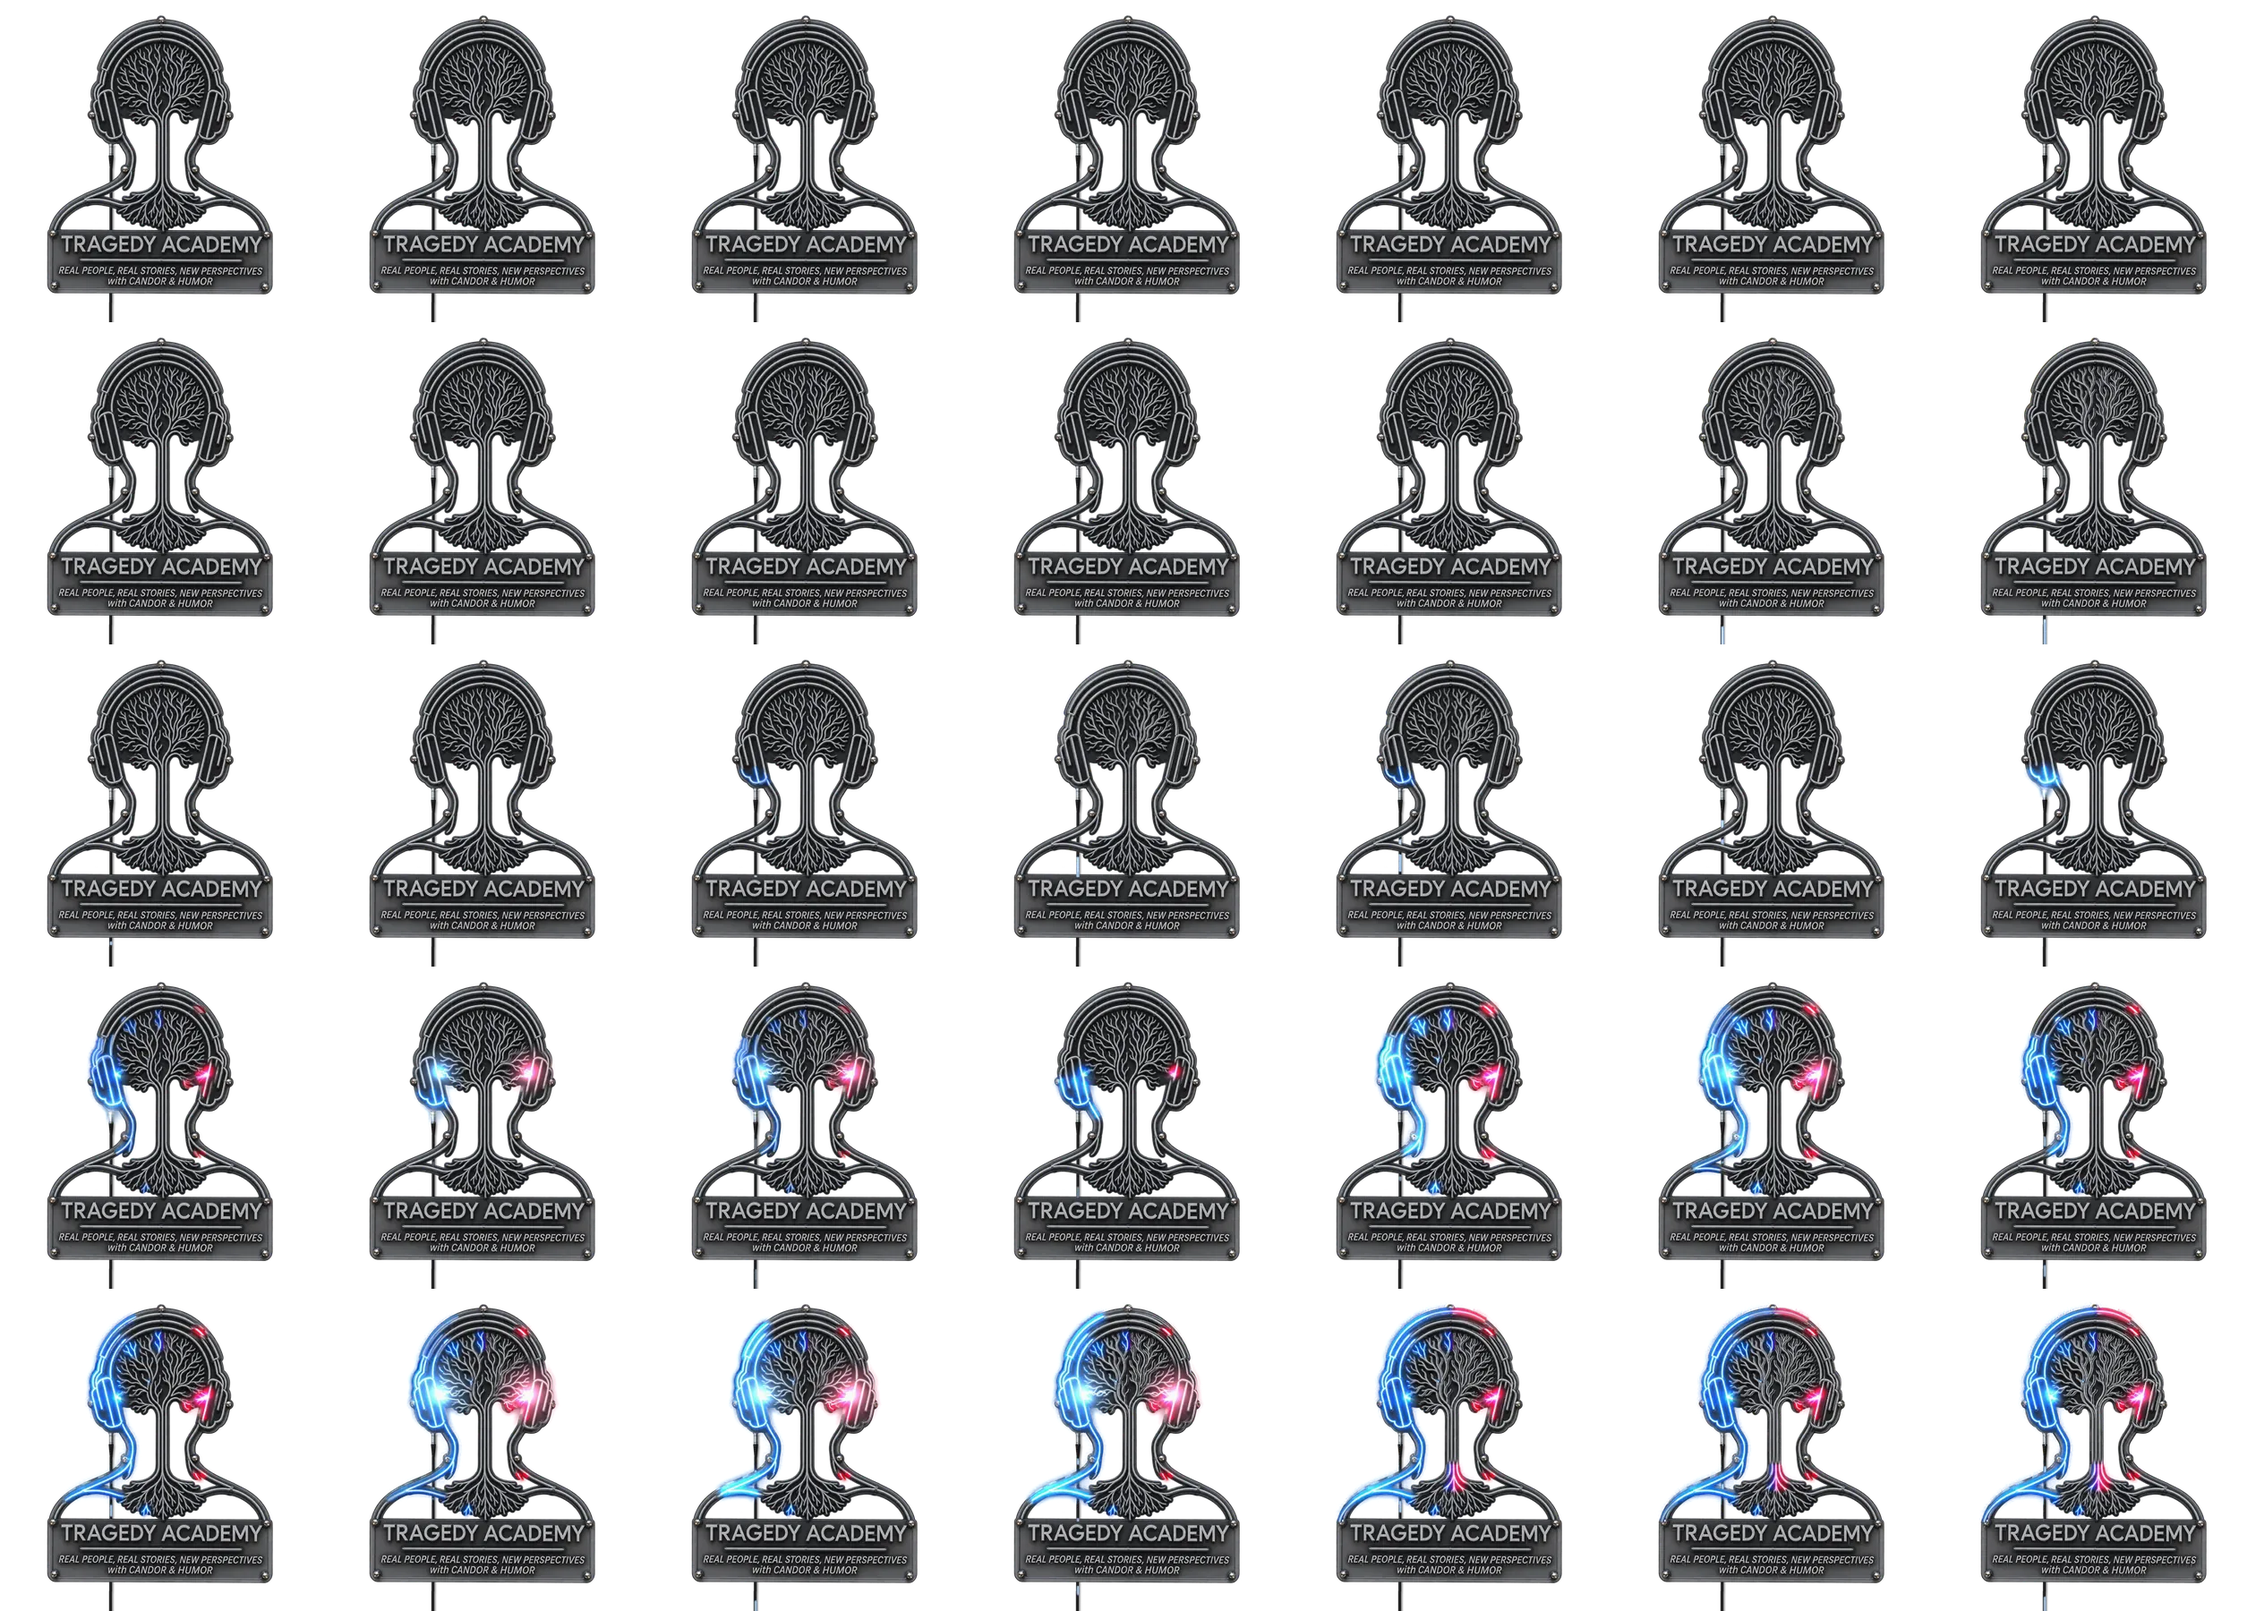
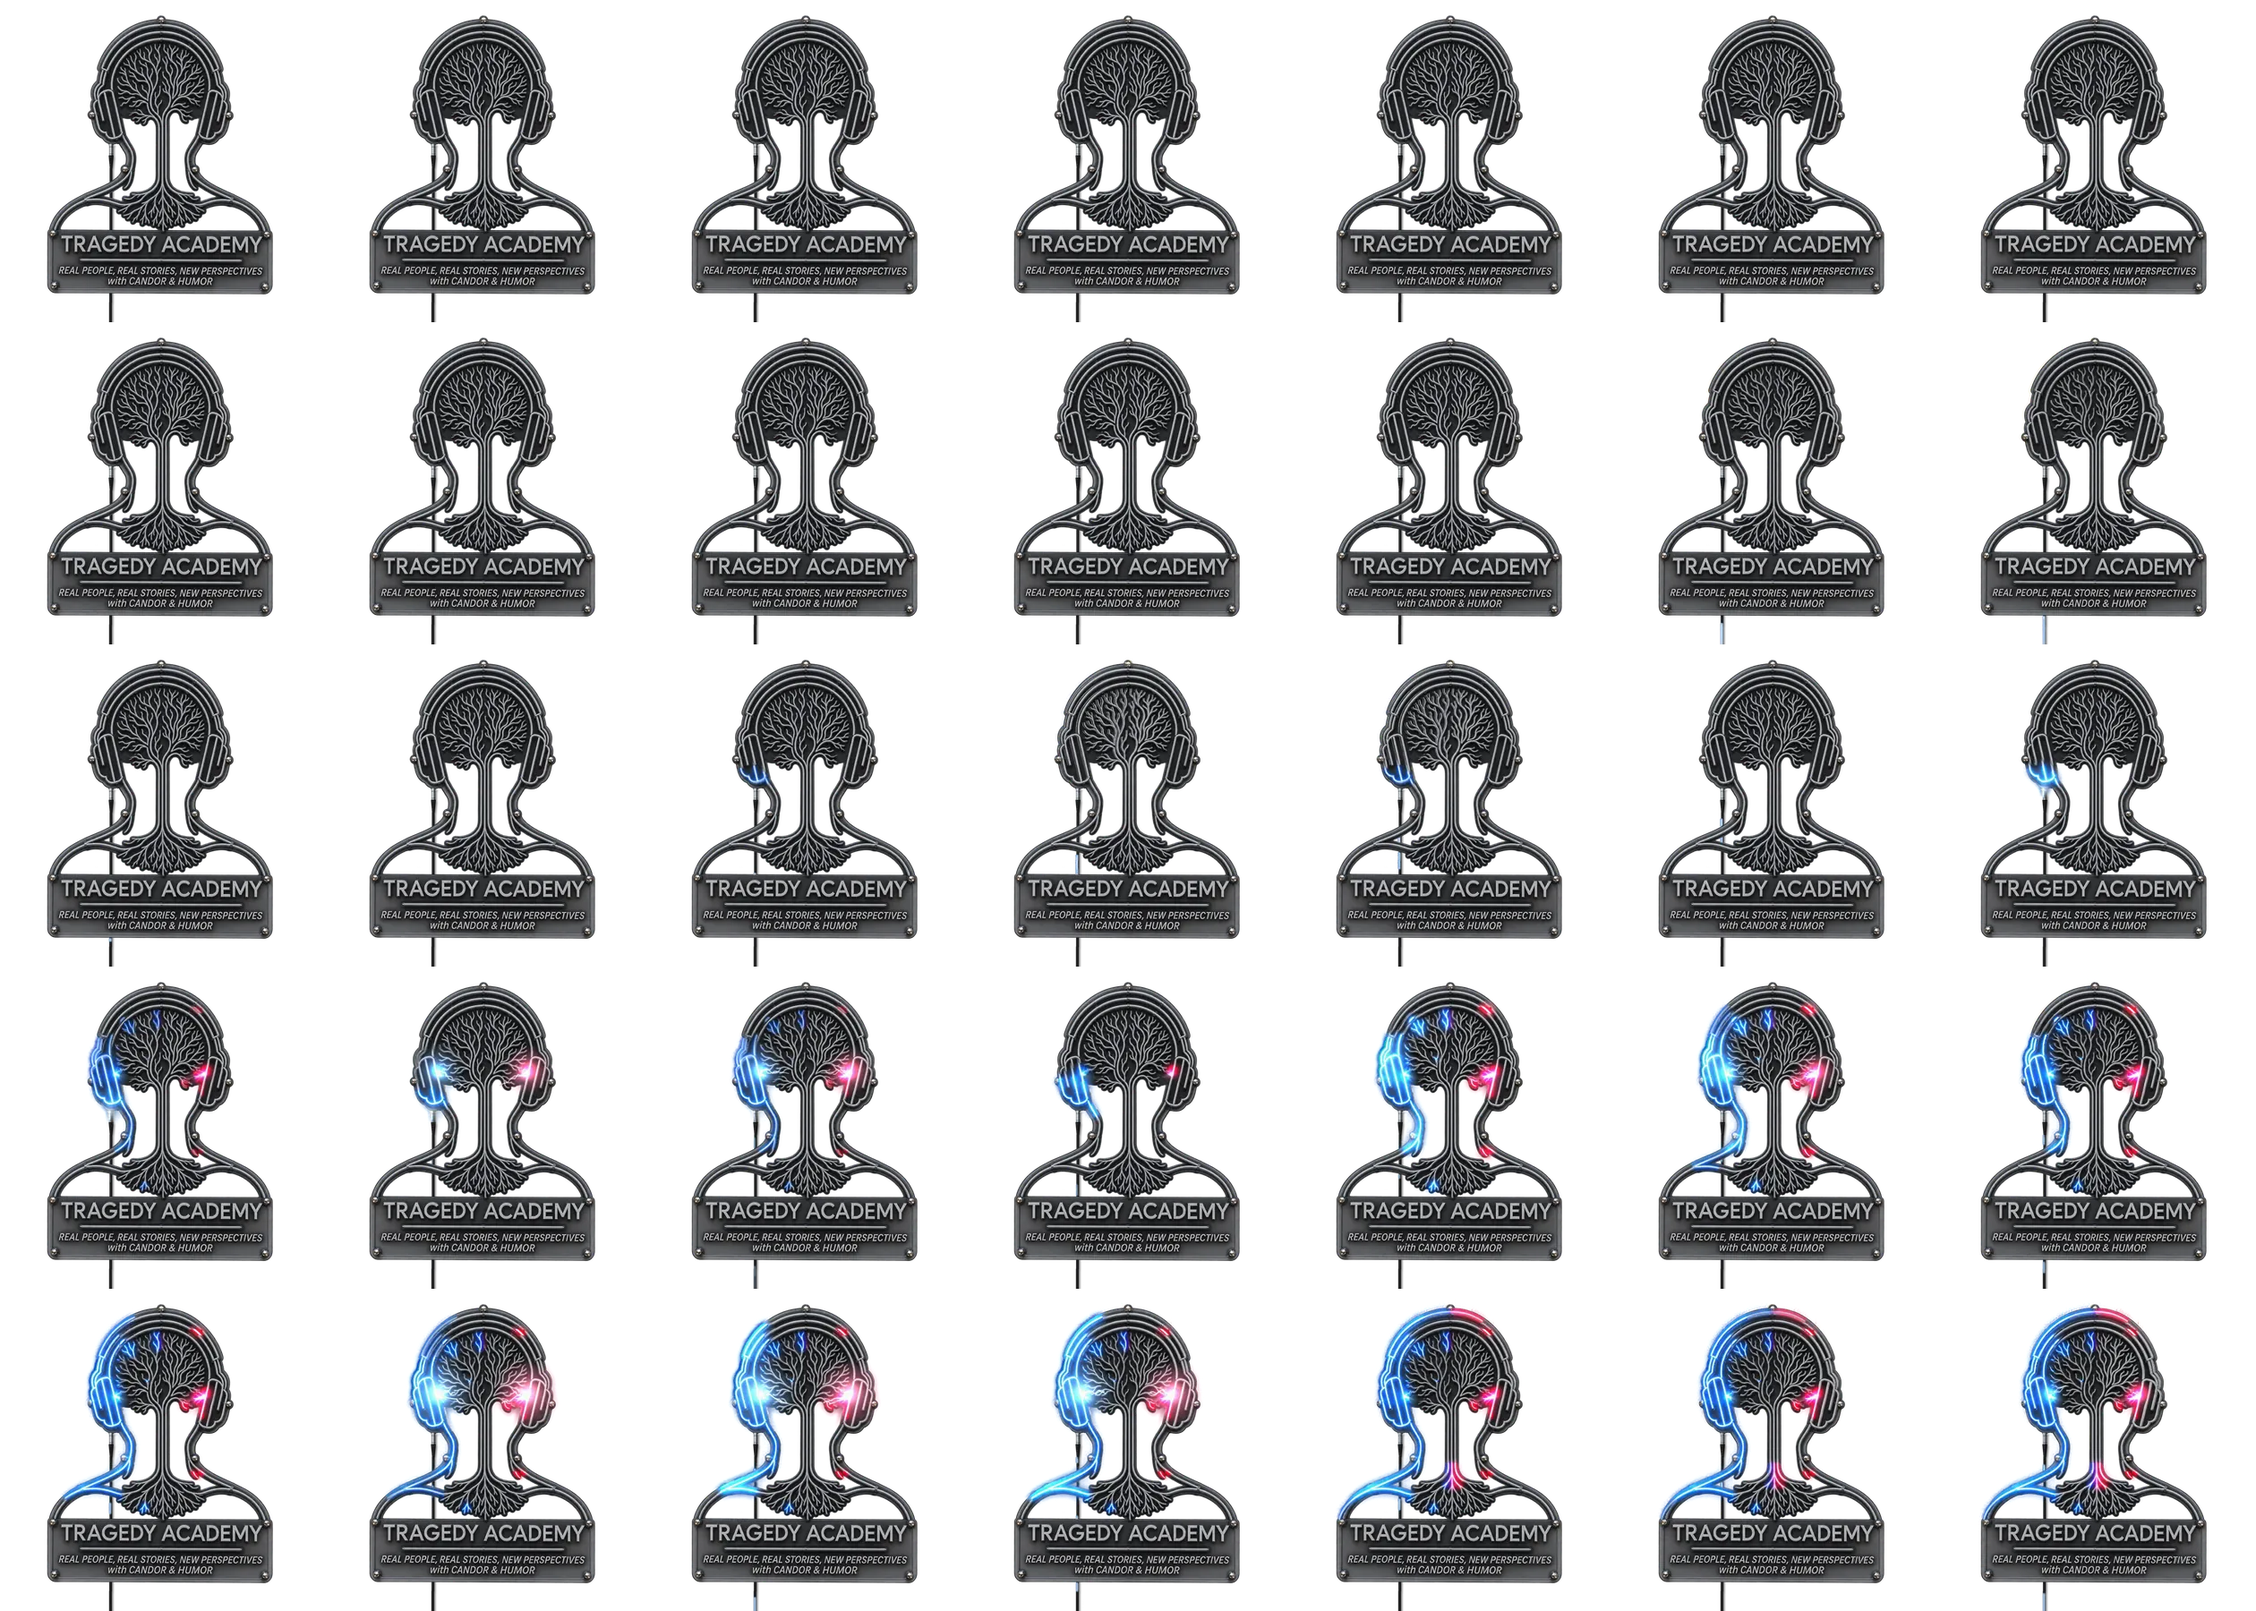
Add files via upload

diff --git a/player.js b/player.js
@@ -328,13 +328,13 @@
     // ignition
     // ignition: the real intro light-up (TTA_Open_Template_v2, 15 fps, 105 frames), cut to the sign
     var T, NF = 105, END = 7.0;
-    if (t < END + 0.4) { T = t; if (t >= END) this.lit = true; else if (t < 0.5) this.lit = false; this.ignAt = null; }
+    if (t < END + 0.75) { T = t; if (t >= END + 0.7) this.lit = true; else if (t < 0.5) this.lit = false; this.ignAt = null; }
     else if (this.lit) T = 99;
-    else if (playing || this.ignAt) { if (!this.ignAt) this.ignAt = now; T = 1.2 + (now - this.ignAt) / 1000 * 4; if (T >= END + 0.35) { this.lit = true; this.ignAt = null; } }
+    else if (playing || this.ignAt) { if (!this.ignAt) this.ignAt = now; T = 1.2 + (now - this.ignAt) / 1000 * 4; if (T >= END + 0.7) { this.lit = true; this.ignAt = null; } }
     else T = 0;
     this.T = T;
-    var ready = this.sheetsReady === 3, sprite = ready && T > 0.05 && T < END + 0.35;
-    var L = T >= END ? Math.min(1, (T - END) / 0.3) : (ready ? 0 : ign(IGN_T, T));
+    var ready = this.sheetsReady === 3, sprite = ready && T > 0.05 && T < END + 0.7;
+    var L = T >= END ? Math.min(1, (T - END) / 0.6) : (ready ? 0 : ign(IGN_T, T));
     if (T > 50) L = 1;
     var key2 = Math.round(L * 100) + (sprite ? 1000 : 0);
     if (this._lk !== key2) {
